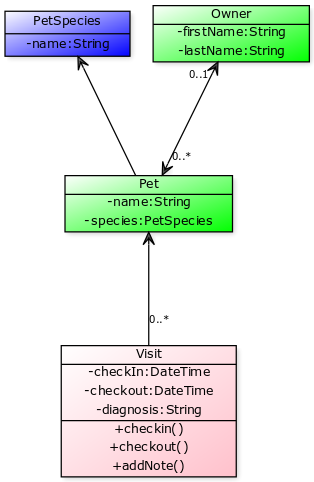
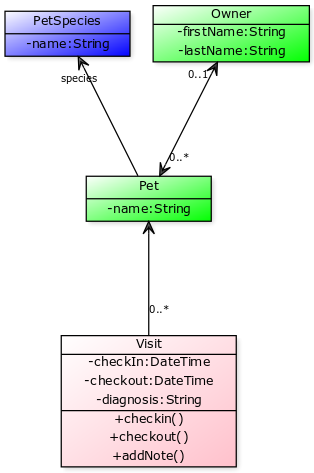
petclinic tutorial
git-svn-id: https://svn.apache.org/repos/asf/isis/site/trunk@1648688 13f79535-47bb-0310-9956-ffa450edef68

diff --git a/content/intro/tutorials/step-by-step-petclinic.md b/content/intro/tutorials/step-by-step-petclinic.md
@@ -12,9 +12,9 @@ This tutorial builds a simple petclinic application, consisting of just three do
 
 The above diagram was built using [yuml.me](http://yuml.me]); the DSL that defines this diagram is:
 <pre>
-[Pet|-name:String;-species:PetSpecies{bg:green}]<-0..*[Visit|-checkIn:DateTime;-checkout:DateTime;-diagnosis:String|+checkin();+checkout();+addNote(){bg:pink}]
+[Pet|-name:String{bg:green}]<-0..*[Visit|-checkIn:DateTime;-checkout:DateTime;-diagnosis:String|+checkin();+checkout();+addNote(){bg:pink}]
 [Owner|-firstName:String;-lastName:String{bg:green}]<0..1-0..*>[Pet]
-[PetSpecies|-name:String{bg:blue}]<-[Pet]
+[PetSpecies|-name:String{bg:blue}]<species-[Pet]
 </pre>
 
 Either follow along or check out the tags from the corresponding [github repo](https://github.com/danhaywood/isis-app-petclinic).
@@ -222,6 +222,15 @@ Time to start refactoring the app.  The heart of the PetClinic app is the `Pet` 
 {note
 git checkout [bee3629c0b64058f939b6dd20f226be31810fc66](https://github.com/danhaywood/isis-app-petclinic/commit/bee3629c0b64058f939b6dd20f226be31810fc66)
 }
+
+## Update package names
+
+The classes created by the simpleapp archetype are by default in the `simple` package.  Move these classes to `pets` package instead:
+
+{note
+git checkout [55ec36e520191f5fc8fe7f5b89956814eaf13317](https://github.com/danhaywood/isis-app-petclinic/commit/55ec36e520191f5fc8fe7f5b89956814eaf13317)
+}
+
 
 
 
